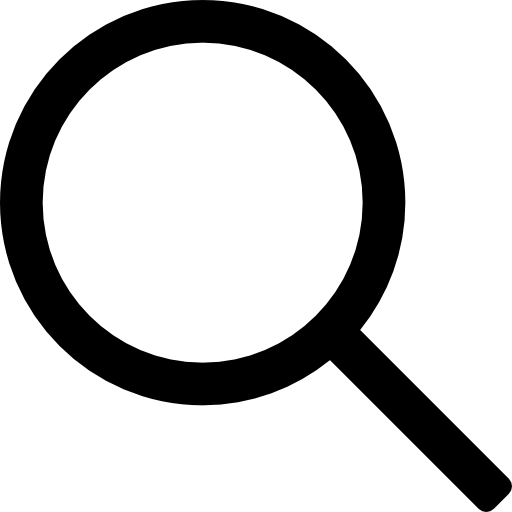
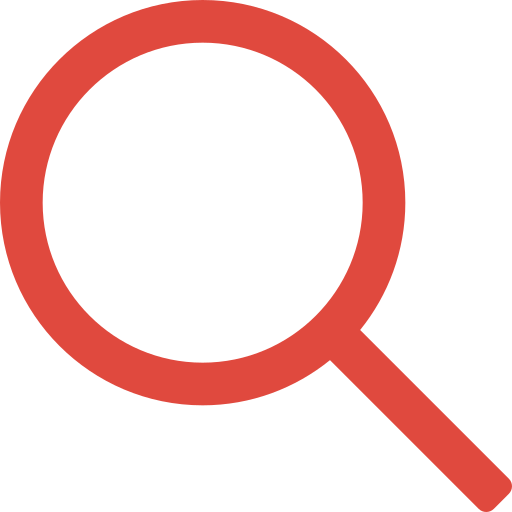
add a border at bottom of the page and fix something

Changed region(s): [[0.0, 0.0, 1.0, 1.0]]

diff --git a/main.css b/main.css
@@ -5,46 +5,125 @@
     box-sizing: border-box;
 }
 
-
-.wrapper {
-    
+.search-form {
     position: absolute;
     top: 50%;
     left: 50%;
     transform: translate(-50%, -50%);
-    background: rgba(0, 0, 0, 0.6);
+    max-width: 650;
+    width: 100%;
+    padding: 0px;
+    border-radius: 8px;
+    border: 2px solid #887472;
+}
+
+/* .wrapper {
+    position: absolute;
+    top: 54%;
+    left: 50%;
+    transform: translate(-50%, -50%);
     max-width: 650px;
+    /* height: 50px; 
     width: 100%;
     padding: 1px;
     border-radius: 8px;
-}
+} */
 
-.wrapper .input {
+.search-form .input {
+    display: inline-block;
+    border: none;
+    max-width: 530px;
     width: 100%;
-    padding: 15px;
+    height: 100%;
+    margin-left: 0px;
+    height: 54px;
+    padding: 0px;
     border-radius: 8px;
-    border-color: #e0493e;
     text-align: right;
-    background-image: url('search.png');
-    background-size: 35px;
-    background-repeat: no-repeat;
-    background-position: 7px 7px;
-    cursor: pointer;
-    font-weight: bold;
+    font-size: 18px;
+    /* font-weight: bold; */
 }
 
-img.ri
-{
-	position: absolute;
-    width: 280px;	
+.search-form .search-btn { 
+    position: absolute;
+    max-width: 47px;
+    height: 54px;
+    width: 100%;
+    border-radius: 8px;
+    text-align: center;
+    padding: 12px;
+    margin-top: 0px;
+    cursor: pointer;
+    /* z-index: -1;    */
+}
+
+img.ri {
+    position: absolute;
+    width: 300px;
     height: auto;
 }
 
-img.ri
-{
-	top: 32%;
-	left: 50%;
-	transform: translate(-50%, -50%);
+img.ri {
+    top: 32%;
+    left: 50%;
+    transform: translate(-50%, -50%);
 }
 
- 
+/* body, html {
+    direction: rtl;
+} */
+
+.container-down {
+    position: absolute;
+    top: 94%;
+    /* left: 60%; */
+    text-align: right;
+    background:rgb(180, 195, 190); 
+    max-width: 1950px;
+    width: 100%;
+    /* border: 2px solid blueviolet; */
+    padding: 20px;
+}
+.container-down .title {
+    color: rgb(48, 58, 57);
+    margin-right:100px;
+    margin-left: 15px;
+    font-size: medium;
+    font-weight: bold;
+    text-decoration: none;
+}
+
+.container-down .title2 {
+    color: rgb(48, 58, 57);
+    margin-right:50px;
+    margin-left: 15px;
+    font-size: medium;
+    font-weight: bold;
+    text-decoration: none;
+}
+.container-down .title:hover {
+    color: rgb(153, 109, 170);
+}
+
+.container-down .title2:hover {
+    color: rgb(153, 109, 170);
+}
+/* .line {
+    display: block;
+    margin-top: 6em;
+    margin-bottom: -4em;
+    margin-left: 5em;
+    margin-right: 5em;
+    border-style: inset;
+    border-width: 2px;
+} */
+
+/* .line2{
+    display: block;
+    margin-top: 47em;
+    margin-bottom: -47em;
+    margin-left: 5em;
+    margin-right: 5em;
+    border-style: inset;
+    border-width: 2px;
+} */

diff --git a/index.html b/index.html
@@ -9,12 +9,25 @@
 </head>
 
 
-<body >
-    
-    <div class="wrapper">
+<body>
+    <form class="search-form" method="get" action="/search/">
+    <!-- <div class="wrapper"> -->
+        <div class="search-btn">
+            <img src="search.png" alt="search-icon" style="color: #e0493e" width="30px" height="30px">
+        </div>
         <input type="text" class="input" placeholder="...محصول مورد نظر را جستجو کنید">
-    </div>
-    <img class="ri" src="logo-gheimatnama.png" alt="logo-gheimatnama">
+    <!-- </div> -->
+    </form>
+    <img class="ri" src="logo-gheimatnama.png" alt="logo-gheimatnama" >
+     <div class="container-down">
+         <!-- <div class="line"> -->
+            <!-- <div class="titles"> -->
+                <a class="title" href="#"> درباره ی ما</a>
+                <a class="title2" href="#">ورود یا ثبت نام</a>
+             <!-- </div> -->
+         <!-- </div> -->
+     </div>
+     <!-- <div class=""></div> -->
 </body>
 
 </html>
